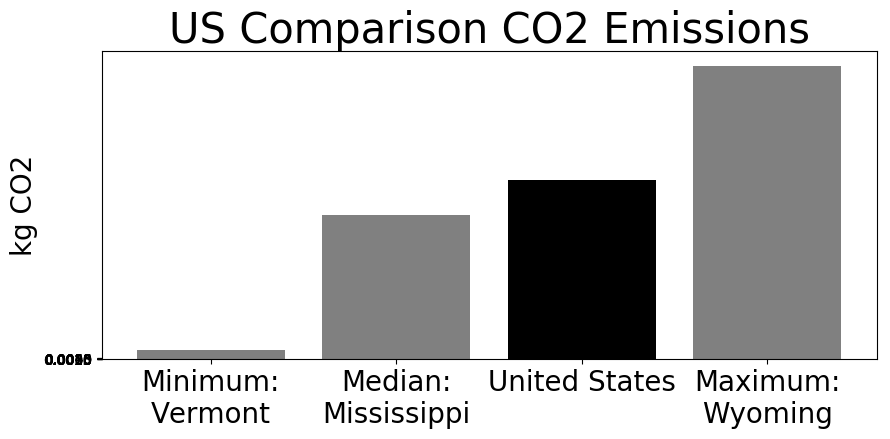
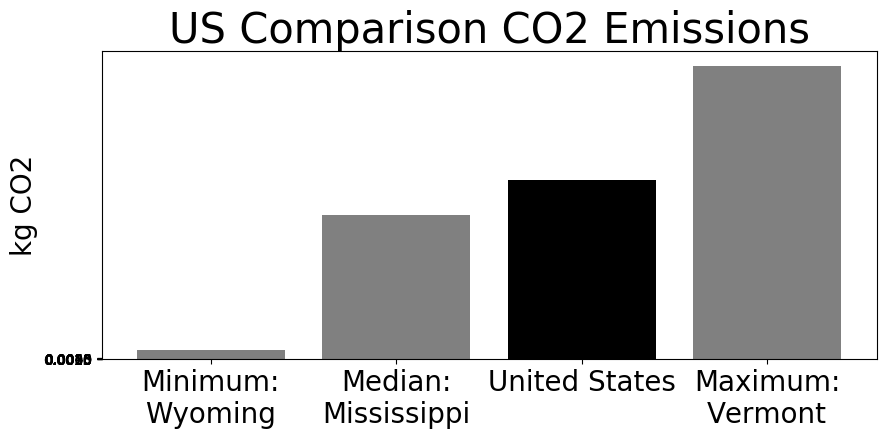
fix x axis in png

Changed region(s): [[0.1517, 0.918, 0.3337, 0.9772], [0.7888, 0.918, 0.9404, 0.9772]]

diff --git a/energyusage/evaluate.py b/energyusage/evaluate.py
@@ -312,14 +312,9 @@ def png_bar_chart(location, emission, default_emissions):
         emission_decimal = (default_emissions[i])[1]
         rounded_emission = round(emission_decimal, 2)
         default_emissions_list.append(rounded_emission)
-    global_dict = {"Mongolia" : default_emissions_list[0], "South Korea" : default_emissions_list[1], "Bhutan" : default_emissions_list[2]}
-    eu_dict = {"Kosovo" : default_emissions_list[3], "Ukraine" : default_emissions_list[4], "Iceland" : default_emissions_list[5]}
-    us_dict = {"Wyoming" : default_emissions_list[6], "Mississippi" : default_emissions_list[7], "Vermont" : default_emissions_list[8]}
-    print(global_dict)
-    print(eu_dict)
-    print(us_dict)
-    print(location)
-    print(emission)
+    global_dict = {"Bhutan" : default_emissions_list[0], "South Korea" : default_emissions_list[1], "Mongolia" : default_emissions_list[2]}
+    eu_dict = {"KosovoIceland" : default_emissions_list[3], "Ukraine" : default_emissions_list[4], "Kosovo" : default_emissions_list[5]}
+    us_dict = {"Vermont" : default_emissions_list[6], "Mississippi" : default_emissions_list[7], "Wyoming" : default_emissions_list[8]}
     graph.make_comparison_bar_charts(location, emission, us_dict, eu_dict, global_dict)
 
 def evaluate(user_func, *args, pdf=False, png = False, powerLoss=0.8, energyOutput=False, \

diff --git a/energyusage/test_report.py b/energyusage/test_report.py
@@ -1,0 +1,14 @@
+import evaluate
+import report
+
+def linear(n):
+    for i in range(n):
+        for j in range(50000000):
+            num = 1+1
+            
+def exp(n):
+    for i in range(2**n):
+        linear(1)
+        
+#evaluate.evaluate(exp, 10, pdf=True,  png=True)
+report.generate_mlco2(3, 1.68, png=True)
